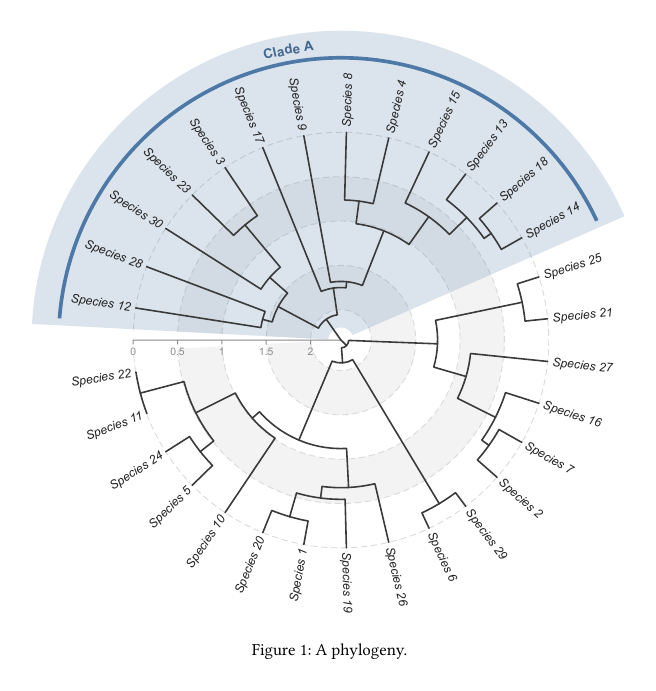
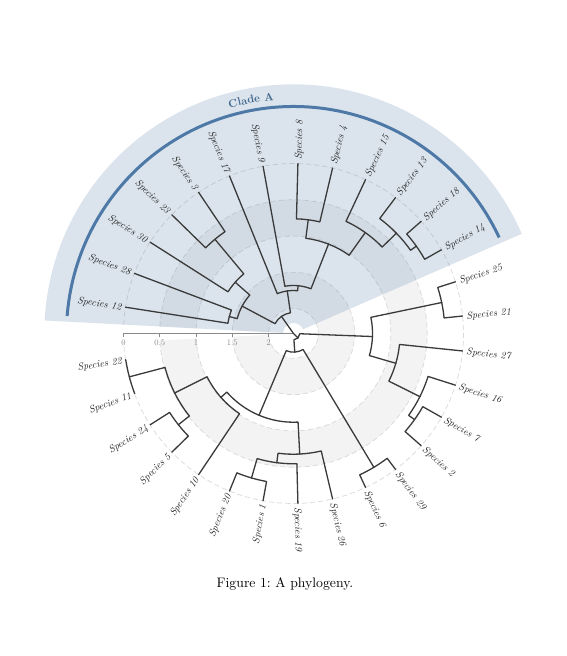
Docs: document fonts and metrics for TikZ/CeTZ; list FontMetrics in API
Fixes the docs build (FontMetrics/fontmetrics docstrings were missing from
the manual), adds the decorations.text library the TikZ example now needs,
explains how labels follow the document font, and regenerates the TikZ and
Typst screenshots.

diff --git a/docs/src/tikz.md b/docs/src/tikz.md
@@ -1,14 +1,13 @@
 # TikZ / LaTeX
 
 Saving to `.tikz` writes a `tikzpicture` to `\input` into a LaTeX document.
-Labels are typeset by LaTeX in the document's font. Saving to `.tex` writes a
-standalone document instead.
+Saving to `.tex` writes a standalone document instead.
 
 ```julia
 using PlotPhyloTree, Random
 tree = randtree(30; rng=Xoshiro(1), labels=["Species_$i" for i in 1:30])
 ladderize!(tree)
-p = treeplot(tree; layout=:circular, italic=true)
+p = treeplot(tree; layout=:circular, italic=true, metrics=:lmroman)
 highlight!(p, childnodes(tree, rootnode(tree))[1]; label="Clade A")
 timescale!(p)
 savefig("tree.tikz", p)
@@ -18,8 +17,10 @@ savefig("tree.tikz", p)
 
 ```latex
 \documentclass{article}
+\usepackage[T1]{fontenc}
+\usepackage{lmodern}
 \usepackage{tikz}
-\usepackage{graphicx}
+\usetikzlibrary{decorations.text}   % curved clade labels
 \begin{document}
 
 \begin{figure}
@@ -35,6 +36,35 @@ savefig("tree.tikz", p)
 
 ![TikZ output](assets/tikz.png)
 
-[`tikzstring`](@ref) returns the code as a string; `scale` multiplies all
-lengths and `font` sets the label font (e.g. `font="\\rmfamily"`). Images
-added with [`tipimages!`](@ref) are written next to the `.tikz` file.
+## Fonts
+
+The branches, wedges, rings and symbols are drawn where the layout put them.
+The labels are handed to LaTeX as text, so they are set in the document's
+font. Change the document's font and the tree's labels change with it.
+
+To set the font for the trees only:
+
+- wrap the picture in a font switch: `{\sffamily\input{tree.tikz}}`;
+- define `\PlotPhyloTreeFont` in the preamble to affect every tree, e.g.
+  `\newcommand\PlotPhyloTreeFont{\sffamily}`;
+- or pass LaTeX code for one figure: `tikzstring(p; font="\\sffamily")`.
+
+The layout reserves room for labels before LaTeX sets them, so tell it which
+font to measure with `metrics` in [`treeplot`](@ref): `:lmroman` or `:lmsans`
+for LaTeX's default Latin Modern, `:times`, `:helvetica` (the default), or
+[`fontmetrics`](@ref) with your document font's `.otf`/`.ttf` file. With the
+wrong metrics labels still line up, but rings beyond them may sit too close
+or too far away.
+
+Curved clade labels use TikZ's `text along path`, so their letters are
+spaced with the document font's own widths. This needs
+`\usetikzlibrary{decorations.text}`. Pass `curvedtext=:glyphs` to place
+each letter where the layout put it instead.
+
+## Options
+
+[`tikzstring`](@ref) returns the code as a string. `scale` multiplies all
+lengths, font sizes included. A standalone `.tex` file loads a font matching
+`metrics` (TeX Gyre Heros for `:helvetica`, Latin Modern, or TeX Gyre
+Termes). Images added with [`tipimages!`](@ref) are written next to the
+`.tikz` file.

diff --git a/docs/src/typst.md b/docs/src/typst.md
@@ -8,7 +8,7 @@ document. Without `standalone=false` the file compiles on its own.
 using PlotPhyloTree, Random
 tree = randtree(30; rng=Xoshiro(1), labels=["Species_$i" for i in 1:30])
 ladderize!(tree)
-p = treeplot(tree; layout=:circular, italic=true)
+p = treeplot(tree; layout=:circular, italic=true, metrics=:lmroman)
 highlight!(p, childnodes(tree, rootnode(tree))[1]; label="Clade A")
 timescale!(p)
 savefig("tree.typ", p; standalone=false, scale=0.8)
@@ -18,6 +18,7 @@ savefig("tree.typ", p; standalone=false, scale=0.8)
 
 ```typst
 #set page(width: 16cm, height: auto)
+#set text(font: "New Computer Modern")
 
 #figure(
   include "tree.typ",
@@ -29,6 +30,26 @@ savefig("tree.typ", p; standalone=false, scale=0.8)
 
 ![CeTZ output](assets/typst.png)
 
+## Fonts
+
+The branches, wedges, rings and symbols are drawn where the layout put them.
+The labels are handed to Typst as text, so they use whatever
+`#set text(font: …)` is in force where the file is included. Change the
+document's font and the tree's labels change with it. To use a different font
+for one figure, pass `font` (a name or a list of names) when saving.
+
+The layout reserves room for labels before Typst sets them, so tell it which
+font to measure with `metrics` in [`treeplot`](@ref): `:lmroman` (close to
+New Computer Modern), `:lmsans`, `:times`, `:helvetica` (the default), or
+[`fontmetrics`](@ref) with your document font's `.otf`/`.ttf` file.
+
+Curved clade labels are measured by Typst: each letter is placed along the
+arc using its width in the document font. Pass `curvedtext=:glyphs` to place
+each letter where the layout put it instead.
+
+## Options
+
 [`cetzstring`](@ref) returns the code as a string. The default CeTZ version
 needs Typst ≥ 0.13.1; for older Typst pass e.g. `cetz="0.3.0"` (Typst ≥ 0.11).
-`scale` multiplies all lengths and `font` sets the label font.
+`scale` multiplies all lengths, font sizes included. A standalone file sets a
+font matching `metrics`.

diff --git a/docs/src/api.md b/docs/src/api.md
@@ -56,6 +56,13 @@ phyloplot
 phylofigure
 ```
 
+## Fonts
+
+```@docs
+FontMetrics
+fontmetrics
+```
+
 ## Colours
 
 ```@docs
